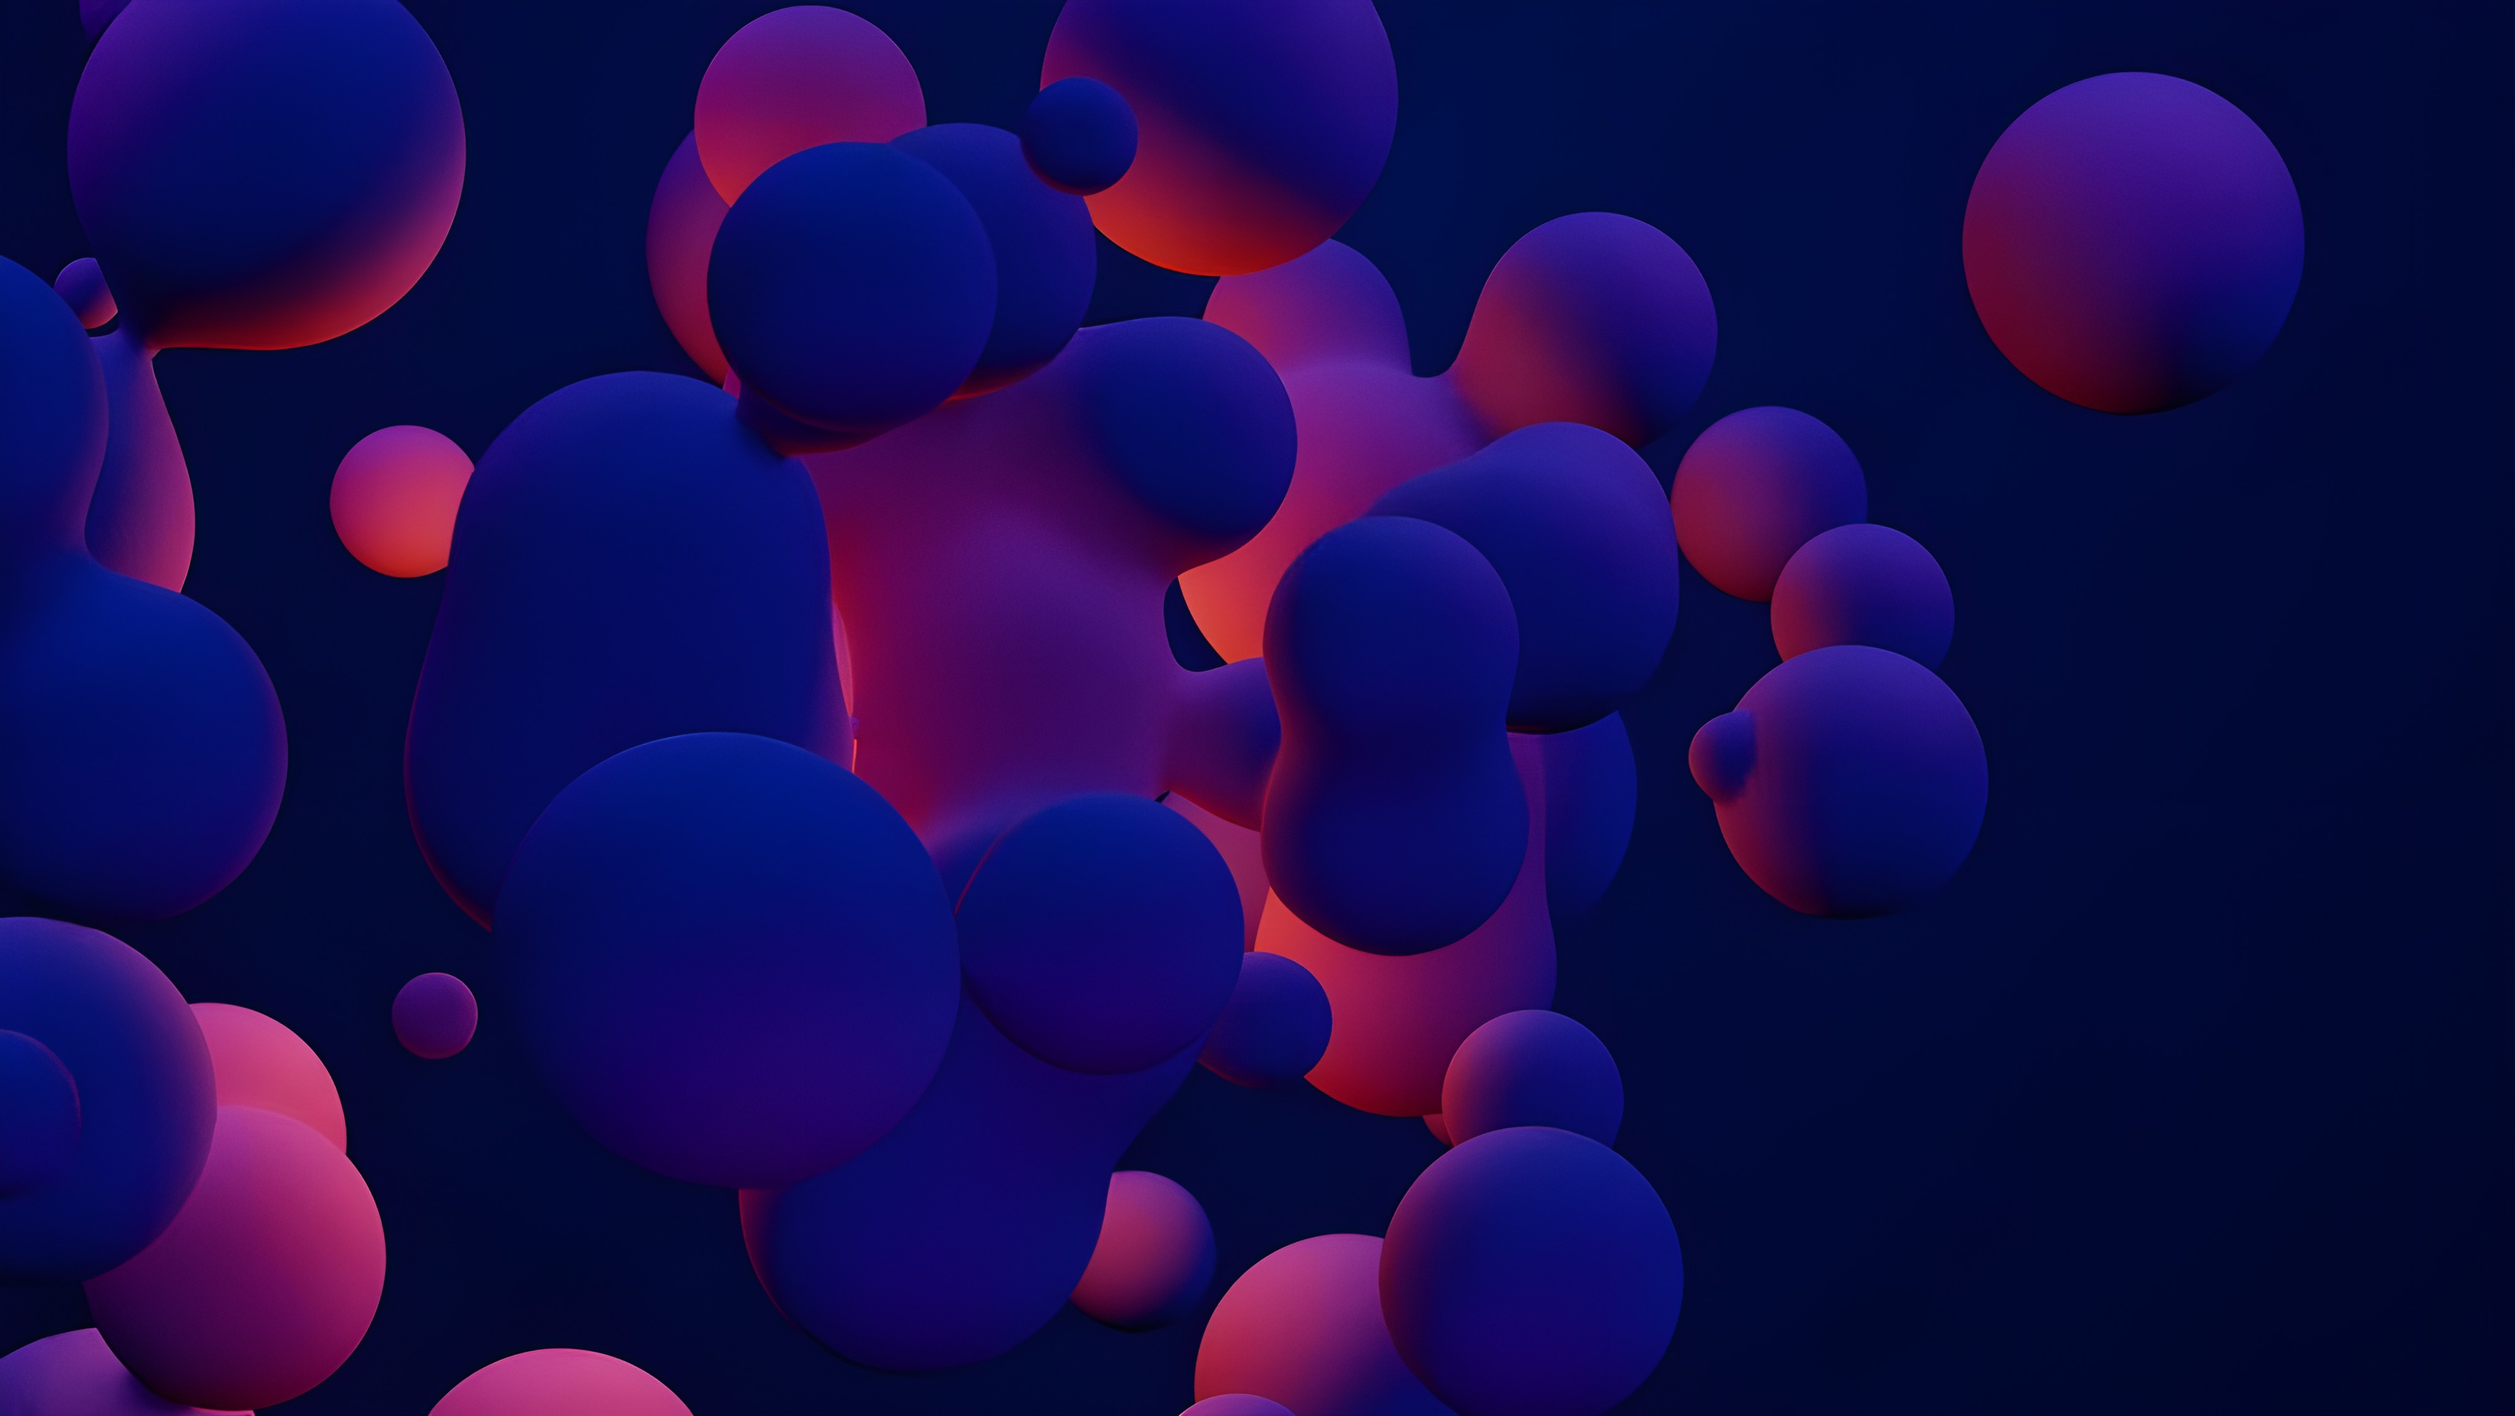
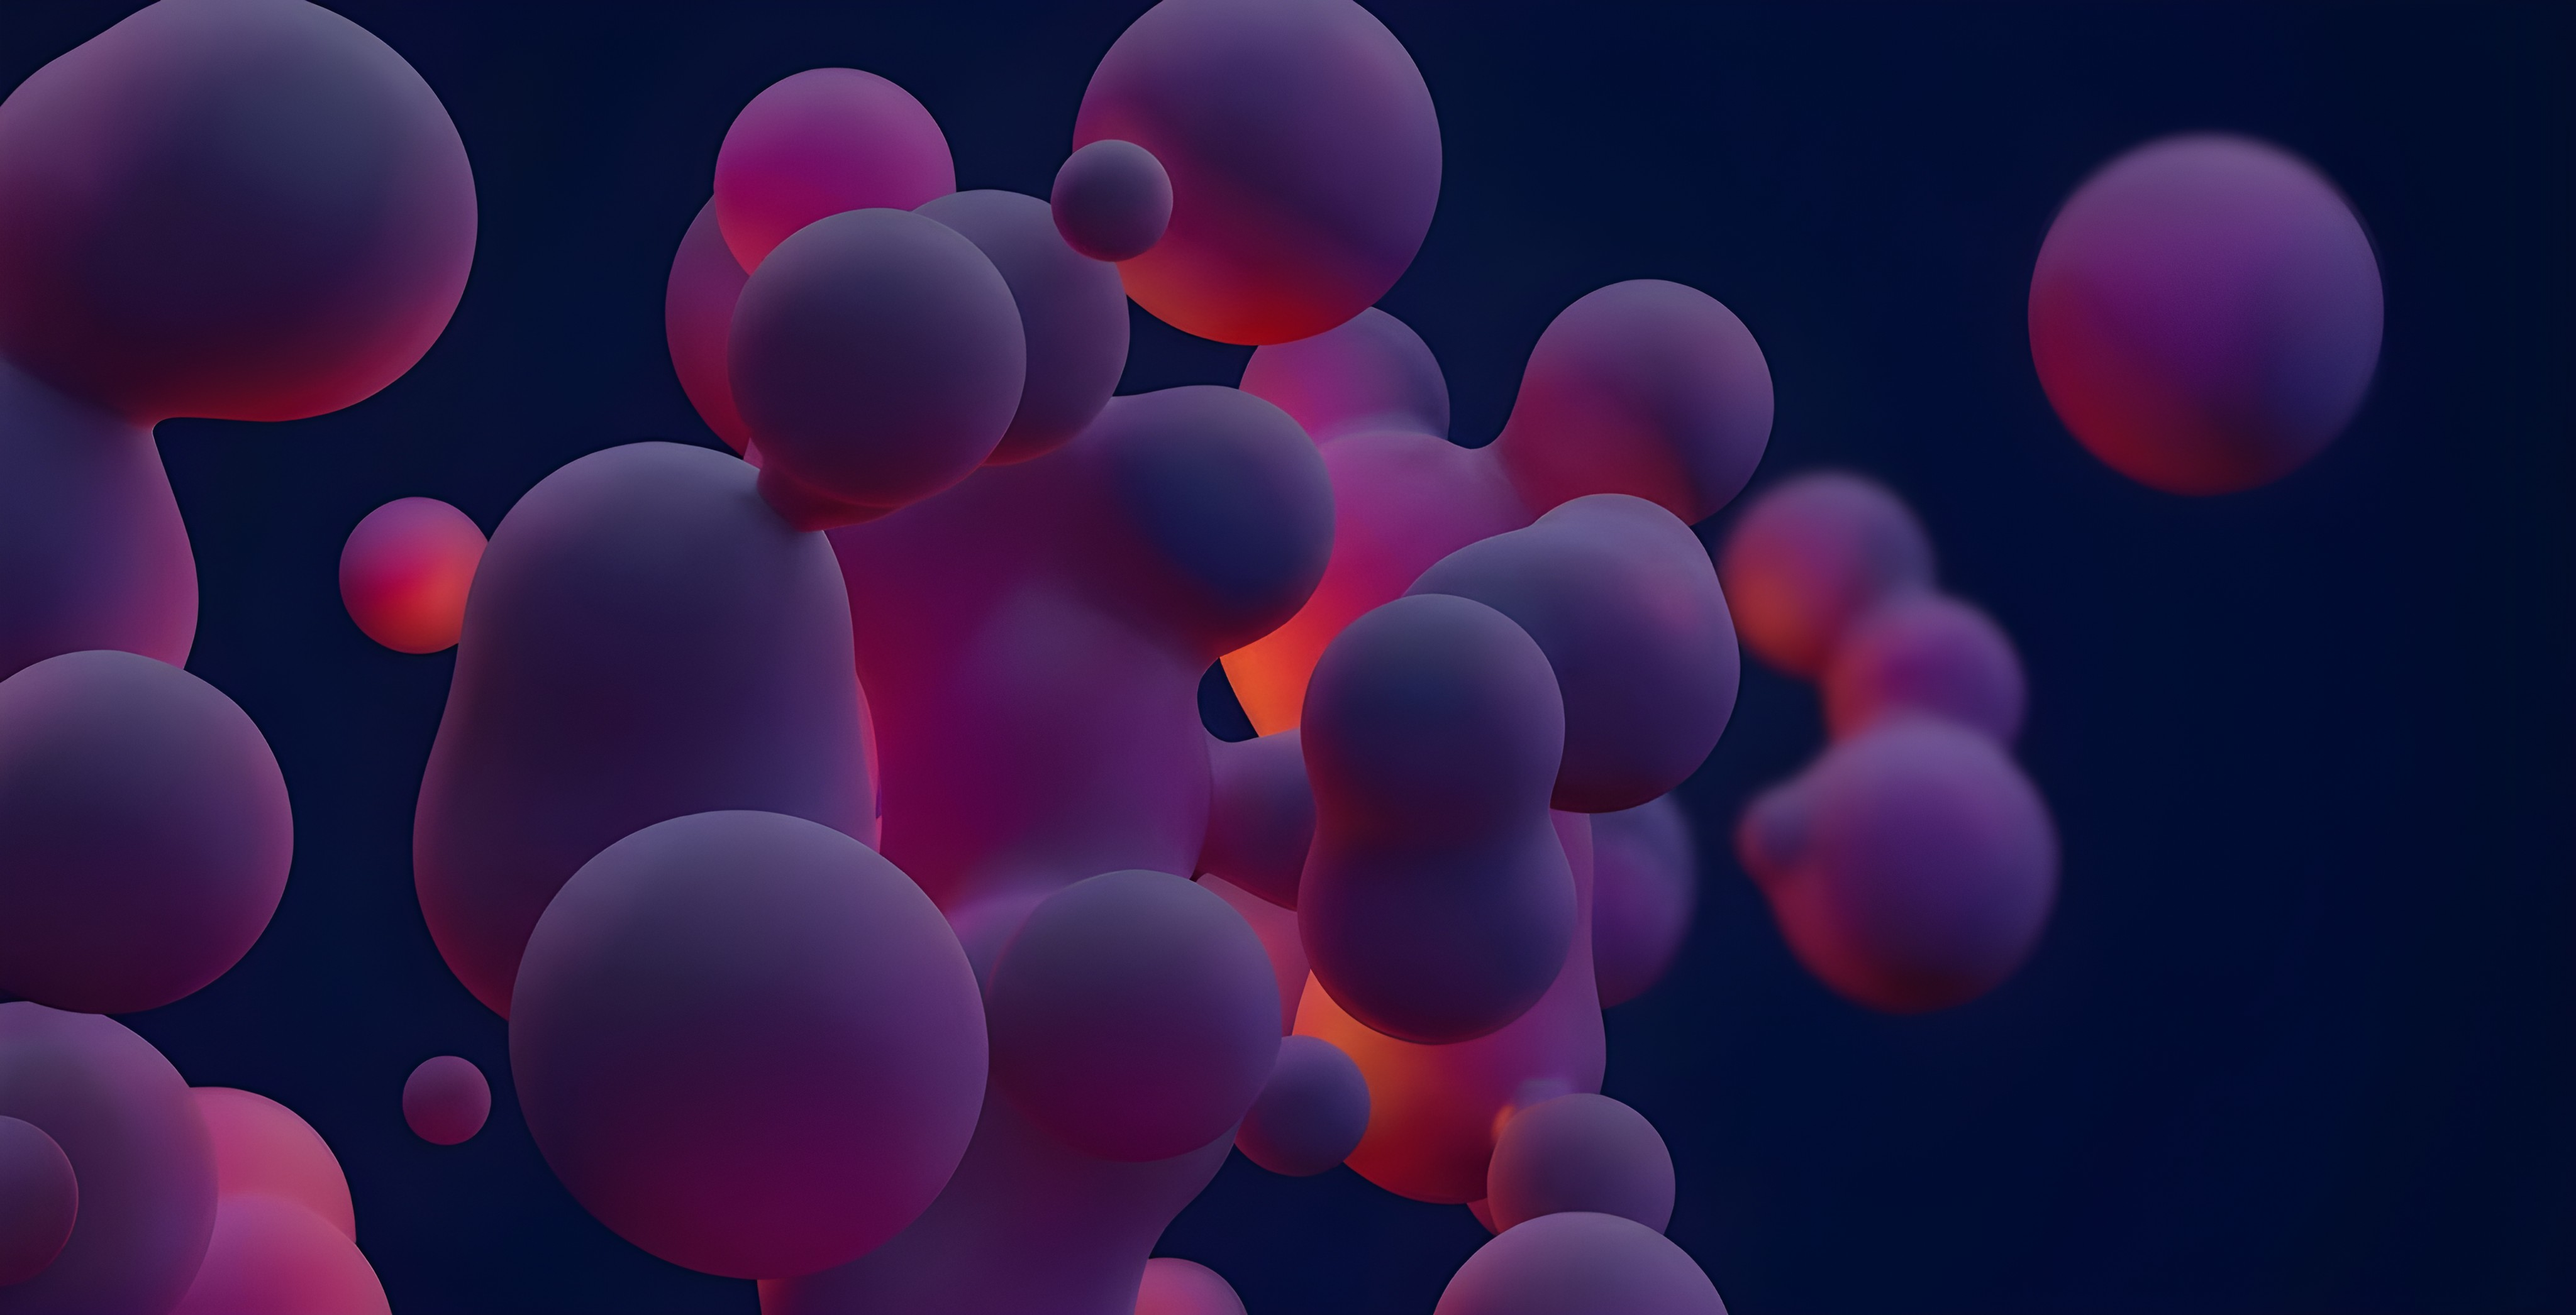
New homepage
- Scrollbar (needs to be tweaked)
- New addable project boxes

diff --git a/NotedApp/public/homepage.css b/NotedApp/public/homepage.css
@@ -182,22 +182,54 @@ body {
     -webkit-backdrop-filter: blur(18px);
     border: 1.7px solid var(--card-border);
     border-radius: 23px;
-    margin: 140px 30px 0px;
+    margin: 130px 30px 0px;
     padding: 32px 28px;
     transition: transform 0.2s, border-color 0.2s;
 }
 
 #projects-container{
-    margin:40px 86px 50px;
+    margin:40px 86px 30px;
     height: 576px;
+    min-width: 265px;
+    overflow-y: auto;
+    align-content: flex-start;
     backdrop-filter: var(--card);
+    display: flex;
+    flex-wrap: wrap;
+    gap: 16px;
 }
+
+/*Scrollbar customization*/
+
+#projects-container {
+    scrollbar-color: var(--purple) rgba(255,255,255,0.05);
+}
+
+#projects-container::-webkit-scrollbar {
+    width: 8px;
+    
+}
+
+#projects-container::-webkit-scrollbar-track {
+    background: rgba(255, 255, 255, 0.05);
+    border-radius: 10px;
+}
+
+#projects-container::-webkit-scrollbar-thumb {
+    background: var(--purple);
+    border-radius: 10px;
+}
+
+#projects-container::-webkit-scrollbar-thumb:hover {
+    background: var(--pink);
+}
+
+/* ---- */
 
 #projects-notice{
     color: var(--muted);
     text-align: center;
     padding-top: 50px;
-
 }
 
 #create-btn{
@@ -245,20 +277,19 @@ body {
     max-width: 120px;
 }
 
-#projects-container {
-    display: flex;
-    flex-wrap: wrap;
-    gap: 16px;
-    margin-top: 16px;
-}
+
+/*Project Boxes*/
 
 .project-box {
+    background: rgba(255,255,255,0.07);
+    backdrop-filter: blur(15px) saturate(100%) brightness(1.2);
+    -webkit-backdrop-filter: blur(18px);
     position: relative;
     width: 200px;
+    min-width: 150px;
     height: 120px;
-    background: #fff;
-    border: 1px solid #ddd;
-    border-radius: 8px;
+    border: 1.7px solid var(--card-border);
+    border-radius: 15px;
     padding: 12px;
     cursor: pointer;
     display: flex;
@@ -296,4 +327,16 @@ body {
 
 .project-rename-btn:hover {
     color: #5b8cff;
+}
+
+@media (max-width: 600px) {
+    .projects-box {
+        margin: 140px 12px 0px;
+        padding: 30px 60px;
+    }
+
+    #projects-container {
+        margin: 20px 0 30px;
+        min-width: 0;
+    }
 }
